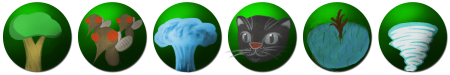
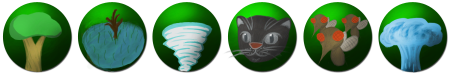
Implemented all the buttons

diff --git a/src/Particle.cpp b/src/Particle.cpp
@@ -33,9 +33,9 @@ void Particle::Draw(Viewport* viewport)
 	viewport->draw(&m_sprite);
 }
 
-//Splash Particle
+//Tornado Particle
 
-testParticle::testParticle(Vector position, Vector direction, Vector scale, Texture* texture)
+Tornado::Tornado(Vector position, Vector direction, Vector scale, Texture* texture)
 	: Particle(position,Vector(direction.x/5.0f,-direction.y/5.0f),scale,texture,5.0f)
 {
 	m_startY = position.y;
@@ -52,7 +52,7 @@ testParticle::testParticle(Vector position, Vector direction, Vector scale, Text
 	//m_sprite.setColor(1,1,1,1);
 	m_timer = 2;
 }
-bool testParticle::Update(float DeltaTime)
+bool Tornado::Update(float DeltaTime)
 {
 
 	m_animation->Update(DeltaTime);
@@ -68,13 +68,47 @@ bool testParticle::Update(float DeltaTime)
 	return false;
 }
 
-void testParticle::setColor(int R,int G,int B,int A)
+void Tornado::setColor(int R,int G,int B,int A)
 {
 	m_r = R;
 	m_g = G;
 	m_b = B;
 	m_a = A;
 	m_sprite.setColor(unsigned int(m_r), unsigned int(m_g), unsigned int(m_b), unsigned int(m_a));
+}
+
+Bug::Bug(Vector position, Vector direction, Vector scale, Texture* texture)
+	: Particle(position,Vector(direction.x/5.0f,-direction.y/5.0f),scale,texture,5.0f)
+{
+	m_direction = Vector(direction.x/5.0f,-direction.y/5.0f);
+	m_sprite.setOrigin(m_sprite.getSize()/2);
+	m_sprite.setColor(255,255,255,180);
+	if (direction.x > 0)
+	{
+		m_scale.x = -m_scale.x;
+		m_sprite.setScale(m_scale);
+	}
+	m_sprite.setLayer(285);
+	//m_sprite.setColor(1,1,1,1);
+
+	m_life = 10;
+}
+
+Cat::Cat(Vector position, Vector direction, Vector scale, Texture* texture)
+	: Particle(position,Vector(direction.x/5.0f,-direction.y/5.0f),scale,texture,5.0f)
+{
+	m_direction = Vector(direction.x/5.0f,-direction.y/5.0f);
+	m_sprite.setOrigin(m_sprite.getSize()/2);
+	m_sprite.setColor(255,255,255,180);
+	if (direction.x > 0)
+	{
+		m_scale.x = -m_scale.x;
+		m_sprite.setScale(m_scale);
+	}
+	m_sprite.setLayer(285);
+	//m_sprite.setColor(1,1,1,1);
+
+	m_life = 10;
 }
 
 

diff --git a/src/Game.cpp b/src/Game.cpp
@@ -44,6 +44,14 @@ Game::Game(Viewport& viewport, Input &input)
 		button->setLayer(296);
 		buttons.push_back(button);
 	}
+
+	buttons[0]->elementToSpawn = Forest;
+	buttons[1]->elementToSpawn = Swamp;
+	buttons[2]->hazardToSpawn = tornado;
+	buttons[3]->hazardToSpawn = cat;
+	buttons[4]->hazardToSpawn = bug;
+	buttons[5];
+
 	particleEngine = new ParticleEngine();
 }
 
@@ -87,15 +95,39 @@ void Game::Update(const double& dt)
 			camera->FollowMouse(dt);
 		}
 
-		if(input->isButtonPressed(Button::MouseLeft))
+		for(int i = 0; i < 2; ++i)
 		{
-			map.AddElement(Forest, input->getMousePositionOnMap());
-			particleEngine->addTest(Vector(input->getMousePositionOnMap()),Vector(5.0f,5.0f));
+			if(buttons[i]->isPressed())
+				spawnElement = buttons[i]->elementToSpawn;
+		}
+
+		for(int i = 2; i < 5; ++i)
+		{
+			if(buttons[i]->isPressed())
+				spawnHazard = buttons[i]->hazardToSpawn;
+		}
+
+		if(spawnElement > 0 && input->isButtonPressed(Button::MouseLeft))
+		{
+			map.AddElement(spawnElement, input->getMousePositionOnMap());
 
 		}
-		else if(input->isButtonPressed(Button::MouseRight))
+
+		else if(spawnHazard >= 0 && input->isButtonPressed(Button::MouseLeft) )
 		{
-			map.AddElement(Swamp, input->getMousePositionOnMap());
+			switch(spawnHazard)
+			{
+			case tornado:
+				particleEngine->addTornado(input->getMousePositionOnMap(), Vector(1,1));
+				break;
+			case cat:
+				particleEngine->addCat(input->getMousePositionOnMap(), Vector(100,1));
+				break;
+			case bug:
+				particleEngine->addBug(input->getMousePositionOnMap(), Vector(100,1));
+				break;
+			}
+
 		}
 
 		if (_clock > 30)

diff --git a/include/Particle.h b/include/Particle.h
@@ -6,6 +6,13 @@
 #include <iostream>
 #define PI 3.14159265358979323846264
 
+enum Hazard
+{
+	tornado,
+	cat,
+	bug
+};
+
 class Particle
 {
 public:
@@ -13,6 +20,9 @@ public:
 	virtual ~Particle();
 	virtual bool Update(float DeltaTime);
 	virtual void Draw(EGEMotor::Viewport* Viewport);
+
+	float AreaOfEffect;
+	float Damage;
 
 protected:
 	EGEMath::Vector m_position;
@@ -27,11 +37,11 @@ protected:
 
 //Splash Particle
 
-class testParticle : public Particle
+class Tornado : public Particle
 {
 public:
-	testParticle(EGEMath::Vector Position, EGEMath::Vector Direction, EGEMath::Vector Scale, EGEMotor::Texture* texture);
-	~testParticle(){}
+	Tornado(EGEMath::Vector Position, EGEMath::Vector Direction, EGEMath::Vector Scale, EGEMotor::Texture* texture);
+	~Tornado(){}
 	bool Update(float DeltaTime);
 
 private:
@@ -40,6 +50,19 @@ private:
 	float m_timer, m_startY, m_r, m_g, m_b, m_a;
 };
 
+class Bug : public Particle
+{
+public:
+	Bug(EGEMath::Vector Position, EGEMath::Vector Direction, EGEMath::Vector Scale, EGEMotor::Texture* texture);
+	~Bug(){}
+};
+
+class Cat : public Particle
+{
+public:
+	Cat(EGEMath::Vector Position, EGEMath::Vector Direction, EGEMath::Vector Scale, EGEMotor::Texture* texture);
+	~Cat(){}
+};
 
 
 ////Feather Particle

diff --git a/src/ParticleEngine.cpp b/src/ParticleEngine.cpp
@@ -5,9 +5,9 @@ using namespace EGEMath;
 
 ParticleEngine::ParticleEngine(/*EGEMotor::Font* Font*/)
 {
- 	m_particleTexture = new Texture("tornado_sheet.png");
-	//m_featherTexture = new Texture("featherEffect.png");
-	//m_plusPoint = new Texture("plusPoint.png");
+ 	m_tornadoTexture = new Texture("tornado_sheet.png");
+	m_catTexture = new Texture("tiger.png");
+	m_bugTexture = new Texture("mosqitoes.png");
 	//m_minusPoint = new Texture("minusPoint.png");
 	//m_font = Font;
 }
@@ -47,7 +47,17 @@ void ParticleEngine::Reset()
 	m_particles.clear();
 }
 
-void ParticleEngine::addTest(EGEMath::Vector Position, EGEMath::Vector Direction)
+void ParticleEngine::addTornado(EGEMath::Vector Position, EGEMath::Vector Direction)
 {
-	m_particles.push_back(new testParticle(Position,Direction,Vector(1,1),m_particleTexture));
+	m_particles.push_back(new Tornado(Position,Direction,Vector(1,1),m_tornadoTexture));
+}
+
+void ParticleEngine::addBug(EGEMath::Vector Position, EGEMath::Vector Direction)
+{
+	m_particles.push_back(new Bug(Position,Direction,Vector(1,1),m_bugTexture));
+}
+
+void ParticleEngine::addCat(EGEMath::Vector Position, EGEMath::Vector Direction)
+{
+	m_particles.push_back(new Cat(Position,Direction,Vector(1,1),m_catTexture));
 }

diff --git a/include/ParticleEngine.h b/include/ParticleEngine.h
@@ -18,14 +18,16 @@ public:
 	void Draw(EGEMotor::Viewport* viewport);
 	void Reset();
 
-	void addTest(EGEMath::Vector Position, EGEMath::Vector Direction);
+	void addTornado(EGEMath::Vector Position, EGEMath::Vector Direction);
+	void addBug(EGEMath::Vector Position, EGEMath::Vector Direction);
+	void addCat(EGEMath::Vector Position, EGEMath::Vector Direction);
 	//void addFeather(EGEMath::Vector Position, bool Enemy = false);
 	//void addFeather(EGEMath::Vector Position, EGEMath::Vector Direction, float SpreadDegrees, bool Enemy = false);
 	//void addScore(EGEMath::Vector Position, float Score);
 private:
-	EGEMotor::Texture* m_particleTexture;
-	//EGEMotor::Texture* m_featherTexture;
-	//EGEMotor::Texture* m_plusPoint;
+	EGEMotor::Texture* m_tornadoTexture;
+	EGEMotor::Texture* m_catTexture;
+	EGEMotor::Texture* m_bugTexture;
 	//EGEMotor::Texture* m_minusPoint;
 	//EGEMotor::Font* m_font;
 	std::vector<Particle*> m_particles;

diff --git a/include/Button.h b/include/Button.h
@@ -1,6 +1,8 @@
 #ifndef BUTTON_H
 #define BUTTON_H
 
+#include <Particle.h>
+#include <MapElements.h>
 #include <Sprite.h>
 #include <Animation.h>
 #include <Input.h>
@@ -18,6 +20,9 @@ public:
 	void draw(EGEMotor::Viewport& viewport);
 	bool isPressed();
 	bool mouseOver();
+
+	MapElements elementToSpawn;
+	Hazard hazardToSpawn;
 
 private:
 	EGEMotor::Input* m_input;

diff --git a/src/Button.cpp b/src/Button.cpp
@@ -4,7 +4,7 @@ using namespace EGEMath;
 using namespace EGEMotor;
 
 GUIButton::GUIButton(Texture* texture, Vector position, Rectangle crop,
-		Input* input)
+	Input* input)
 {
 	m_input = input;
 	setPosition(position);

diff --git a/include/Game.h b/include/Game.h
@@ -50,6 +50,9 @@ private:
 
 	std::vector<GUIButton*> buttons;
 
+	MapElements spawnElement;
+	Hazard spawnHazard;
+
 	
 	float Difficulty;
 	float _clock;
